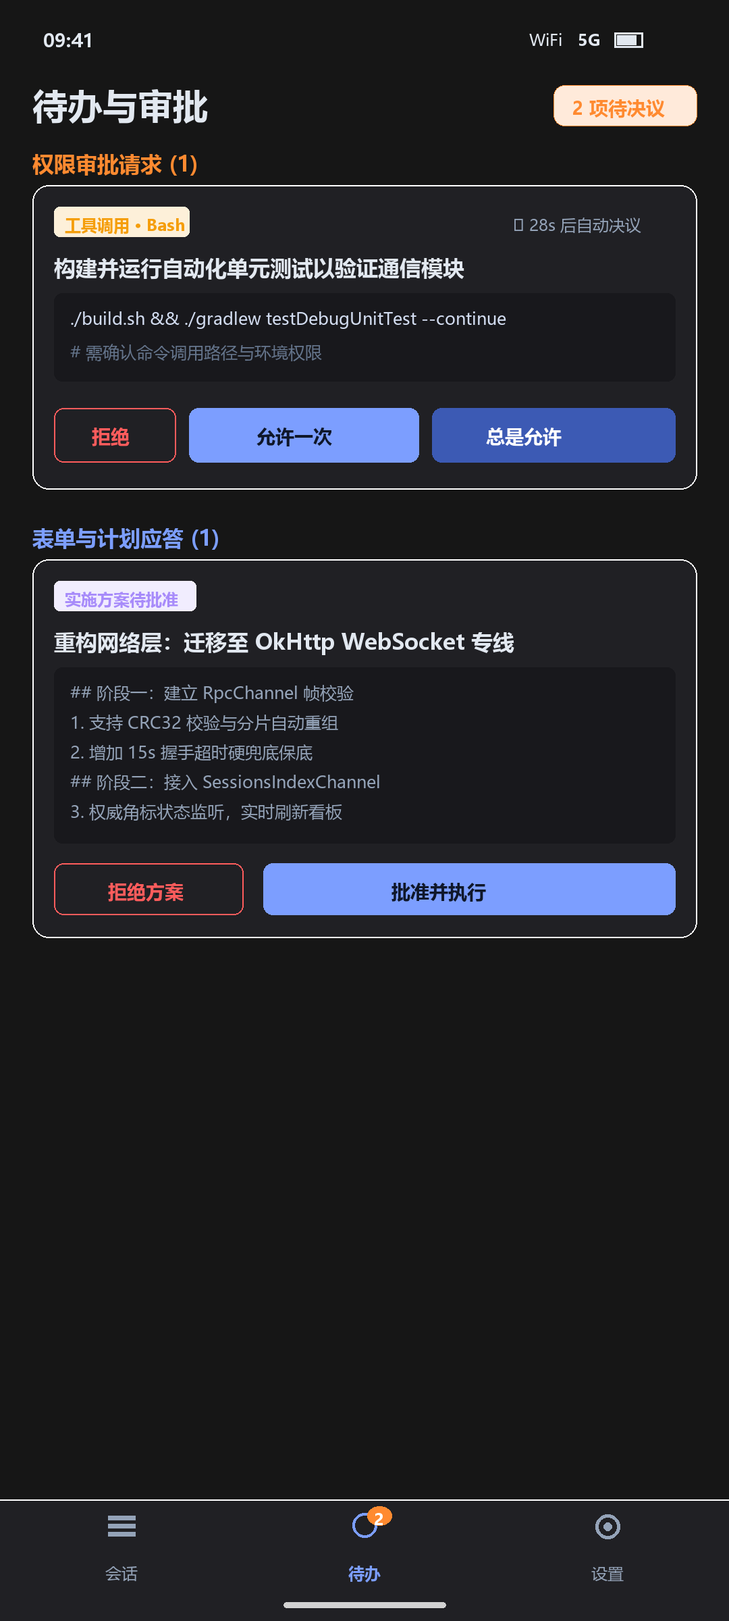
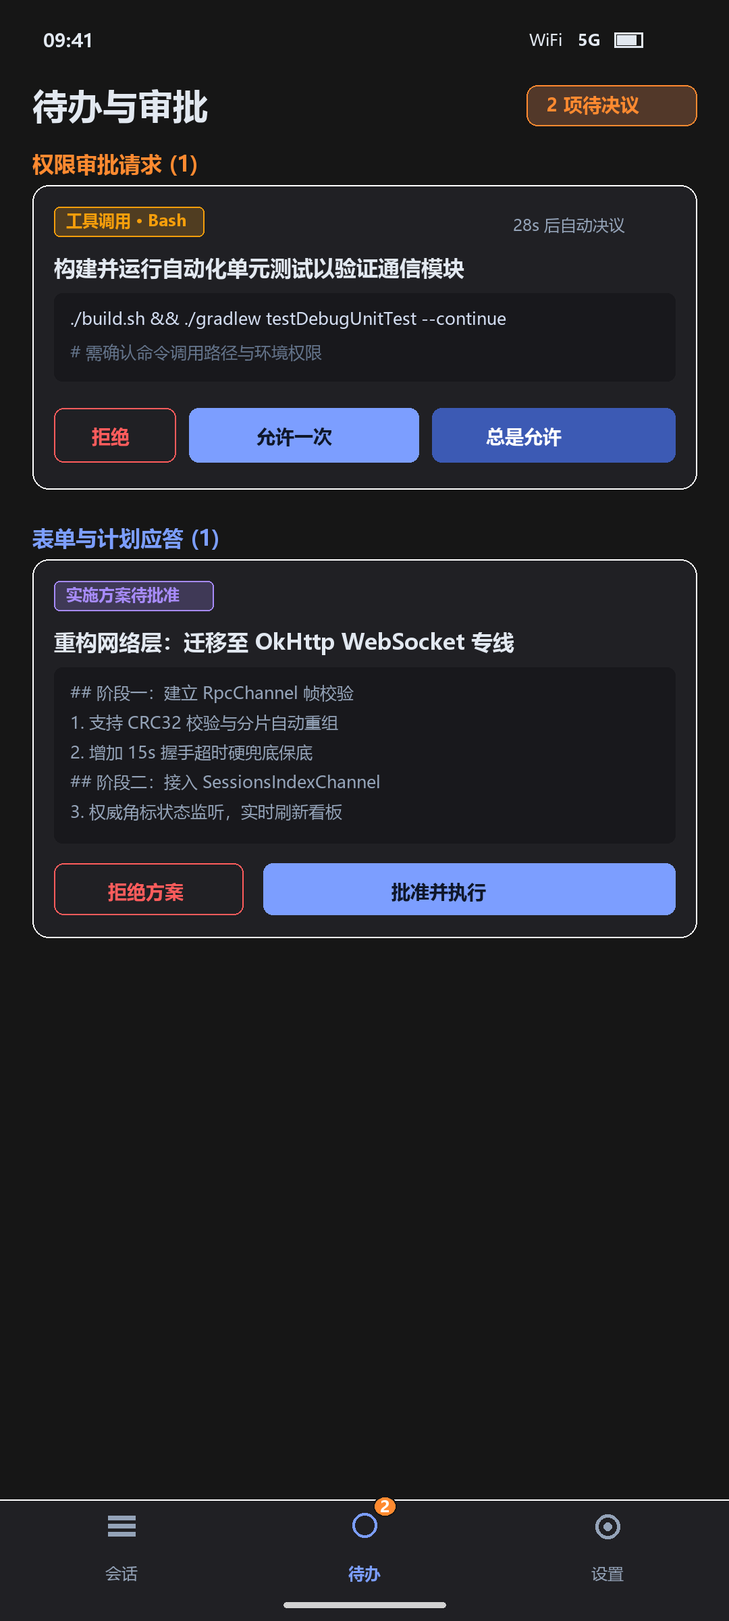
docs(readme): 仓库门面与展示素材专项（Hero 区 + 隐私区块 + 锁屏审批头图 + 素材缺陷修复）
面向外部可见度与转化的展示层改动，未触碰 App 源码、协议与发布链（版本号不变）。

新增
- README 中英双语 Hero 区：锁屏审批动图 + 一句话定位 + 「与官方网页版的关键差别」对照表
  （把「锁屏通知栏审批」从功能列表一行提升为首屏卖点）
- 「隐私与数据」区块（中英双语）：不上传数据 / 凭据只存本机 / 诊断仅主动导出 / 边界如实说明
- 锁屏审批素材：app-lockscreen-approval.png + lockscreen-approval.gif（渲染脚本新增 render_lockscreen_approval）
- README 英文版补齐：### Screenshots 区、Visible Session Error Reasons 条目
- GitHub 仓库 description + 8 topics（此前全空，已由 gh 侧写入）

修复（展示素材真实缺陷）
- 三处标签被同色半透明块吞字：ImageDraw 在 RGBA 上不做 alpha 混合 → 新增 chip_bg/draw_chip
- 7 类 emoji（⏳🔍🎤💻➕➤✓）渲染成缺字方块：msyh 无 emoji 字形 → 改几何图元绘制
- 导航角标压图标、锁屏卡回复行箭头缺字、锁屏卡留白过大与文案重复

文档
- CHANGELOG 新增「未发布（2026-10-15）」段；HANDOVER 顶部权威覆盖层更新

验证
- 渲染脚本全量生成 5 PNG + 1 GIF 成功；README 10 处图片引用 0 缺失
- 像素化验：标签强调色文字存在且底色为深色；锁屏回复行命中主色三角发送符

diff --git a/tools/render_screenshots.py b/tools/render_screenshots.py
@@ -1,3 +1,16 @@
+"""README 展示素材渲染器（PIL 绘制，非真机截图）。
+
+产出 docs/screenshots/ 下 5 张 PNG + 1 张 GIF：
+  app-sessions / app-approval-notification / app-conversation / app-working
+  + app-lockscreen-approval.png / lockscreen-approval.gif（锁屏审批三态）
+
+绘图约束（改图前必读）：
+  1. 所有 fill 必须是不透明 3 元组。ImageDraw 在 RGBA 上**不做 alpha 混合**，
+     传半透明色会让同色系文字与底色叠加、文字不可读——用 chip_bg() 先把
+     强调色混到底色上。
+  2. 不要用 emoji。msyh 字体缺 emoji 字形（⏳🔍🎤💻➕➤✓ 实测全渲染成 □），
+     图标一律用几何图元（draw_magnifier/draw_mic/draw_monitor/draw_send）。
+"""
 from PIL import Image, ImageDraw, ImageFont
 import os
 
@@ -71,9 +84,12 @@ def draw_nav_bar(draw, active_tab=0, badge_count=1):
         elif idx == 1:
             draw.arc([cx - 18, iy - 20, cx + 18, iy + 16], 0, 360, fill=color, width=4)
             if badge_count > 0:
-                bx, by = cx + 22, iy - 16
-                draw.ellipse([bx - 18, by - 14, bx + 18, by + 14], fill=STATUS_PENDING)
-                draw.text((bx - 8, by - 12), str(badge_count), fill=(255, 255, 255), font=font_caption_bold)
+                bx, by = cx + 30, iy - 30
+                draw.ellipse([bx - 17, by - 15, bx + 17, by + 15], fill=BG_COLOR)
+                draw.ellipse([bx - 15, by - 13, bx + 15, by + 13], fill=STATUS_PENDING)
+                bb = draw.textbbox((0, 0), str(badge_count), font=font_caption_bold)
+                draw.text((bx - (bb[2] - bb[0]) // 2 - bb[0], by - (bb[3] - bb[1]) // 2 - bb[1]),
+                          str(badge_count), fill=(255, 255, 255), font=font_caption_bold)
         else:
             draw.arc([cx - 18, iy - 18, cx + 18, iy + 18], 0, 360, fill=color, width=5)
             draw.ellipse([cx - 6, iy - 6, cx + 6, iy + 6], fill=color)
@@ -84,6 +100,45 @@ def draw_nav_bar(draw, active_tab=0, badge_count=1):
 
 def draw_card(draw, box, fill=CARD_BG, outline=BORDER_COLOR, radius=24):
     draw.rounded_rectangle(box, radius=radius, fill=fill, outline=outline, width=2)
+
+def chip_bg(accent, alpha=0.22, base=CARD_BG):
+    """把强调色按 alpha 混到卡片底色上，得到不透明背景色。
+
+    ImageDraw 在 RGBA 上不做 alpha 混合，直接写半透明 fill 会让标签底色与
+    同色系文字叠在一起、文字彻底看不见（历史截图的真实缺陷）。
+    """
+    return tuple(int(base[i] * (1 - alpha) + accent[i] * alpha) for i in range(3))
+
+def draw_chip(draw, box, accent, text, font=None, radius=8, pad_x=18):
+    f = font or font_caption_bold
+    draw.rounded_rectangle(box, radius=radius, fill=chip_bg(accent), outline=accent, width=2)
+    x0, y0, x1, y1 = box
+    bb = draw.textbbox((0, 0), text, font=f)
+    y = y0 + (y1 - y0 - (bb[3] - bb[1])) // 2 - bb[1]
+    draw.text((x0 + pad_x, y), text, fill=accent, font=f)
+
+def text_center(draw, cx, y, text, font, fill):
+    bb = draw.textbbox((0, 0), text, font=font)
+    draw.text((cx - (bb[2] - bb[0]) // 2 - bb[0], y), text, fill=fill, font=font)
+
+# 图标一律用几何图元绘制：msyh 字体不含 emoji 字形（⏳🔍🎤💻➕➤✓ 实测全部渲染成缺字方块）
+
+def draw_magnifier(draw, cx, cy, color, r=10):
+    draw.ellipse([cx - r, cy - r, cx + r, cy + r], outline=color, width=3)
+    draw.line([cx + int(r * 0.7), cy + int(r * 0.7), cx + r + 7, cy + r + 7], fill=color, width=3)
+
+def draw_mic(draw, cx, cy, color, w=13, h=24):
+    draw.rounded_rectangle([cx - w // 2, cy - h // 2, cx + w // 2, cy + h // 2], radius=w // 2, fill=color)
+    draw.arc([cx - w, cy - h // 2, cx + w, cy + h // 2 + 4], 0, 180, fill=color, width=3)
+    draw.line([cx, cy + h // 2 + 8, cx, cy + h // 2 + 15], fill=color, width=3)
+
+def draw_monitor(draw, x, y, color, w=34, h=24):
+    draw.rounded_rectangle([x, y, x + w, y + h], radius=4, outline=color, width=3)
+    draw.line([x + w // 2, y + h, x + w // 2, y + h + 7], fill=color, width=3)
+    draw.line([x + w // 2 - 11, y + h + 7, x + w // 2 + 11, y + h + 7], fill=color, width=3)
+
+def draw_send(draw, cx, cy, color, s=15):
+    draw.polygon([(cx - s, cy - s), (cx + s, cy), (cx - s, cy + s)], fill=color)
 
 def render_sessions():
     im = Image.new("RGBA", (W, H), BG_COLOR)
@@ -98,7 +153,8 @@ def render_sessions():
     draw.text((W - 236, 138), "+ 新建会话", fill=ON_PRIMARY, font=font_body_bold)
     
     draw_card(draw, [48, 240, W - 48, 324], fill=SURFACE_COLOR, radius=18)
-    draw.text((80, 264), "🔍 搜索会话标题或工作区路径…", fill=TEXT_MUTED, font=font_caption)
+    draw_magnifier(draw, 90, 278, TEXT_MUTED)
+    draw.text((120, 264), "搜索会话标题或工作区路径…", fill=TEXT_MUTED, font=font_caption)
     
     chips = [("全部 (6)", True), ("运行中 (2)", False), ("待处理 (1)", False)]
     cx = 48
@@ -111,7 +167,7 @@ def render_sessions():
         
     sessions_data = [
         ("分析APP并出具整改方案与重构", "F:/AI/Zcode · GLM-4.5 · 运行中", True, False, STATUS_ONLINE),
-        ("重构网络通信层与 WebSocket 自动重连", "F:/Project/Relay · ⏳ 1 项待决议 (请前往「待办」处理)", False, True, STATUS_PENDING),
+        ("重构网络通信层与 WebSocket 自动重连", "F:/Project/Relay · 1 项待决议 (请前往「待办」处理)", False, True, STATUS_PENDING),
         ("修复用户设置与密钥存储安全隐患", "F:/AI/Zcode · DeepSeek-R1 · 已完成", False, False, (140, 140, 140)),
         ("多机配对管理与自动设备迁移协议", "F:/AI/Zcode · Claude-3.5-Sonnet · 已完成", False, False, (140, 140, 140)),
         ("HyperOS 锁屏审批通知保活指南配置", "F:/System/Guide · 已完成", False, False, (140, 140, 140)),
@@ -150,8 +206,7 @@ def render_approvals():
     draw_status_bar(draw)
     
     draw.text((48, 120), "待办与审批", fill=TEXT_WHITE, font=font_headline)
-    draw.rounded_rectangle([W - 260, 126, W - 48, 186], radius=16, fill=(255, 138, 48, 45), outline=STATUS_PENDING)
-    draw.text((W - 232, 140), "2 项待决议", fill=STATUS_PENDING, font=font_body_bold)
+    draw_chip(draw, [W - 300, 126, W - 48, 186], STATUS_PENDING, "2 项待决议", font=font_body_bold, radius=16, pad_x=30)
     
     cy = 220
     draw.text((48, cy), "权限审批请求 (1)", fill=STATUS_PENDING, font=font_title_small)
@@ -160,9 +215,8 @@ def render_approvals():
     card_box = [48, cy, W - 48, cy + 450]
     draw_card(draw, card_box, fill=SURFACE_COLOR, outline=BORDER_COLOR)
     
-    draw.rounded_rectangle([80, cy + 32, 280, cy + 76], radius=8, fill=(245, 158, 11, 40))
-    draw.text((96, cy + 42), "工具调用 · Bash", fill=TRAJECTORY_AMBER, font=font_caption_bold)
-    draw.text((W - 320, cy + 42), "⏳ 28s 后自动决议", fill=TEXT_MUTED, font=font_caption)
+    draw_chip(draw, [80, cy + 32, 302, cy + 76], TRAJECTORY_AMBER, "工具调用 · Bash")
+    draw.text((W - 320, cy + 42), "28s 后自动决议", fill=TEXT_MUTED, font=font_caption)
     
     draw.text((80, cy + 100), "构建并运行自动化单元测试以验证通信模块", fill=TEXT_WHITE, font=font_title_small)
     
@@ -188,8 +242,7 @@ def render_approvals():
     card_box2 = [48, cy, W - 48, cy + 560]
     draw_card(draw, card_box2, fill=SURFACE_COLOR, outline=BORDER_COLOR)
     
-    draw.rounded_rectangle([80, cy + 32, 290, cy + 76], radius=8, fill=(167, 139, 250, 40))
-    draw.text((96, cy + 42), "实施方案待批准", fill=TRAJECTORY_PURPLE, font=font_caption_bold)
+    draw_chip(draw, [80, cy + 32, 316, cy + 76], TRAJECTORY_PURPLE, "实施方案待批准")
     
     draw.text((80, cy + 100), "重构网络层：迁移至 OkHttp WebSocket 专线", fill=TEXT_WHITE, font=font_title_small)
     
@@ -257,9 +310,8 @@ def render_conversation():
     ay += 240
     
     draw.rounded_rectangle([80, ay, W - 80, ay + 240], radius=16, fill=(28, 28, 34), outline=(255, 255, 255, 20))
-    draw.rounded_rectangle([104, ay + 20, 240, ay + 62], radius=8, fill=(245, 158, 11, 40))
-    draw.text((118, ay + 28), "工具调用 · Bash", fill=TRAJECTORY_AMBER, font=font_caption_bold)
-    draw.text((260, ay + 28), "✓ 成功", fill=STATUS_ONLINE, font=font_caption_bold)
+    draw_chip(draw, [104, ay + 20, 326, ay + 62], TRAJECTORY_AMBER, "工具调用 · Bash")
+    draw.text((260, ay + 28), "√ 成功", fill=STATUS_ONLINE, font=font_caption_bold)
     draw.text((W - 190, ay + 28), "详情 ▼", fill=TEXT_MUTED, font=font_caption)
     
     draw.text((104, ay + 84), "git status -s && ./build.sh", fill=TEXT_WHITE, font=font_mono)
@@ -282,7 +334,7 @@ def render_conversation():
     draw.rounded_rectangle(code_card, radius=14, fill=(22, 24, 30), outline=(255, 255, 255, 20))
     draw.rectangle([80, ay, W - 80, ay + 56], fill=(32, 34, 42))
     draw.text((104, ay + 14), "bash", fill=TEXT_MUTED, font=font_caption_bold)
-    draw.text((W - 190, ay + 14), "✓ 已复制", fill=STATUS_ONLINE, font=font_caption_bold)
+    draw.text((W - 190, ay + 14), "√ 已复制", fill=STATUS_ONLINE, font=font_caption_bold)
     
     draw.text((104, ay + 80), "./build.sh install", fill=(130, 220, 150), font=font_mono)
     draw.text((104, ay + 134), "# 一键编译并在连接的真机上完成安装启动", fill=TEXT_SUBTLE, font=font_mono)
@@ -290,12 +342,12 @@ def render_conversation():
     
     input_y = H - 160
     draw.rounded_rectangle([48, input_y, W - 48, input_y + 110], radius=32, fill=SURFACE_COLOR, outline=(255, 255, 255, 40), width=2)
-    draw.text((84, input_y + 32), "➕", fill=TEXT_MUTED, font=font_title_small)
-    draw.text((144, input_y + 32), "🎤", fill=PRIMARY, font=font_title_small)
+    draw.text((84, input_y + 30), "＋", fill=TEXT_MUTED, font=font_title_small)
+    draw_mic(draw, 160, input_y + 54, PRIMARY)
     draw.text((220, input_y + 38), "发送指令到 PC 端 Agent…", fill=TEXT_MUTED, font=font_body)
     
     draw.ellipse([W - 138, input_y + 18, W - 66, input_y + 90], fill=PRIMARY)
-    draw.text((W - 114, input_y + 30), "➤", fill=ON_PRIMARY, font=font_title_small)
+    draw_send(draw, W - 102, input_y + 54, ON_PRIMARY, s=15)
     
     draw.rounded_rectangle([W // 2 - 120, H - 28, W // 2 + 120, H - 20], radius=4, fill=(160, 160, 160, 120))
     
@@ -318,7 +370,7 @@ def render_settings():
     card1 = [48, cy, W - 48, cy + 180]
     draw_card(draw, card1)
     draw.ellipse([80, cy + 40, 124, cy + 84], fill=PRIMARY_CONTAINER)
-    draw.text((94, cy + 42), "💻", font=font_body_bold)
+    draw_monitor(draw, 88, cy + 50, PRIMARY, w=28, h=20)
     draw.text((150, cy + 34), "ThinkPad-P16 (主工作站)", fill=TEXT_WHITE, font=font_title_small)
     draw.ellipse([152, cy + 96, 164, cy + 108], fill=STATUS_ONLINE)
     draw.text((176, cy + 90), "已就绪 · 会话桥 就绪 · 延迟 12ms", fill=TEXT_MUTED, font=font_caption)
@@ -371,7 +423,7 @@ def render_settings():
     draw_card(draw, card4)
     draw.text((80, cy + 32), "ZCode Remote", fill=TEXT_WHITE, font=font_title_small)
     draw.text((80, cy + 80), "当前版本: v0.5.0-beta1 (Build 11)", fill=TEXT_MUTED, font=font_caption)
-    draw.text((80, cy + 126), "✓ 已是最新版本 · 官方规范设计系统", fill=STATUS_ONLINE, font=font_caption_bold)
+    draw.text((80, cy + 126), "√ 已是最新版本 · 官方规范设计系统", fill=STATUS_ONLINE, font=font_caption_bold)
     
     draw.rounded_rectangle([W - 240, cy + 44, W - 80, cy + 116], radius=14, fill=PRIMARY)
     draw.text((W - 212, cy + 62), "检查更新", fill=ON_PRIMARY, font=font_body_bold)
@@ -381,9 +433,144 @@ def render_settings():
     im.save(os.path.join(out_dir, "app-working.png"), "PNG")
     print("app-working.png generated")
 
+# ---------------------------------------------------------------------------
+# 锁屏通知栏审批（核心差异点头图）：静态主图 + 交互演示 GIF
+# ---------------------------------------------------------------------------
+
+LOCK_TOP = (9, 10, 15)
+LOCK_BOTTOM = (24, 24, 34)
+OUT_DIR = "F:/AI/Zcode/zcode-remote-app/docs/screenshots"
+
+def draw_lock_wallpaper(draw, top=LOCK_TOP, bottom=LOCK_BOTTOM):
+    for y in range(H):
+        t = y / (H - 1)
+        c = tuple(int(top[i] * (1 - t) + bottom[i] * t) for i in range(3))
+        draw.line([(0, y), (W, y)], fill=c)
+
+def draw_lock_clock(draw):
+    cx = W // 2
+    metal = (122, 136, 158)
+    draw.arc([cx - 34, 236, cx + 34, 318], 180, 360, fill=metal, width=13)
+    draw.rounded_rectangle([cx - 54, 288, cx + 54, 378], radius=18, fill=metal)
+    draw.ellipse([cx - 11, 324, cx + 11, 346], fill=LOCK_TOP)
+    text_center(draw, cx, 424, "09:41", get_font(168, bold=True), TEXT_WHITE)
+    text_center(draw, cx, 636, "10月15日 星期三", get_font(38, bold=False), TEXT_MUTED)
+
+def draw_code_box(draw, box, lines, line_h=48):
+    draw.rounded_rectangle(box, radius=14, fill=(20, 20, 26), outline=(255, 255, 255, 20), width=1)
+    y = box[1] + 22
+    for txt, col in lines:
+        draw.text((box[0] + 26, y), txt, fill=col, font=font_mono)
+        y += line_h
+
+def draw_button(draw, box, label, kind="primary"):
+    x0, y0, x1, y1 = box
+    if kind == "danger":
+        draw.rounded_rectangle(box, radius=14, fill=None, outline=STATUS_ERROR, width=3)
+        color = STATUS_ERROR
+    elif kind == "ghost":
+        draw.rounded_rectangle(box, radius=14, fill=(60, 90, 180))
+        color = (255, 255, 255)
+    else:
+        draw.rounded_rectangle(box, radius=14, fill=PRIMARY)
+        color = ON_PRIMARY
+    bb = draw.textbbox((0, 0), label, font=font_body_bold)
+    draw.text((x0 + (x1 - x0 - (bb[2] - bb[0])) // 2 - bb[0],
+               y0 + (y1 - y0 - (bb[3] - bb[1])) // 2 - bb[1]), label, fill=color, font=font_body_bold)
+
+def draw_notif_app_header(draw, x0, y0, x1, when="现在"):
+    draw.rounded_rectangle([x0, y0, x0 + 64, y0 + 64], radius=16, fill=PRIMARY_CONTAINER, outline=PRIMARY, width=2)
+    draw.text((x0 + 15, y0 + 16), ">_", fill=PRIMARY, font=font_body_bold)
+    draw.text((x0 + 82, y0 + 6), "ZCode Remote", fill=TEXT_WHITE, font=font_body_bold)
+    draw.text((x0 + 82, y0 + 44), "远程控制 · 常驻中继", fill=TEXT_SUBTLE, font=font_caption)
+    bb = draw.textbbox((0, 0), when, font=font_caption)
+    draw.text((x1 - (bb[2] - bb[0]) - bb[0], y0 + 12), when, fill=TEXT_SUBTLE, font=font_caption)
+
+def draw_lock_card(draw, expanded, approved=False):
+    if not expanded:
+        box = [48, 1930, W - 48, 2150]
+        draw_card(draw, box, fill=(30, 30, 38), outline=(255, 255, 255, 32), radius=28)
+        draw_notif_app_header(draw, box[0] + 30, box[1] + 30, box[2] - 30)
+        draw.text((box[0] + 30, box[1] + 122), "需要你确认：执行权限审批", fill=TEXT_WHITE, font=font_body_bold)
+        draw.text((box[0] + 30, box[1] + 170), "工具调用 · Bash 请求执行 · 下拉可内联处理", fill=TEXT_MUTED, font=font_caption)
+        return
+
+    box = [48, 1240, W - 48, 1900]
+    draw_card(draw, box, fill=(30, 30, 38), outline=(255, 255, 255, 32), radius=28)
+    x0 = box[0] + 34
+    x1 = box[2] - 34
+    draw_notif_app_header(draw, x0, box[1] + 30, x1)
+
+    draw.text((x0, box[1] + 124), "需要你确认：执行权限审批", fill=TEXT_WHITE, font=font_title_small)
+    draw.text((x0, box[1] + 178), "桌面端请求执行以下命令，锁屏状态下可直接决策：",
+              fill=TEXT_MUTED, font=font_caption)
+
+    draw_code_box(draw, [x0, box[1] + 232, x1, box[1] + 384], [
+        ("./build.sh && ./gradlew testDebugUnitTest --continue", (210, 220, 240)),
+        ("# 需确认命令调用路径与环境权限", TEXT_SUBTLE),
+    ])
+
+    by0, by1 = box[1] + 432, box[1] + 512
+    if approved:
+        draw.rounded_rectangle([x0, by0, x1, by1], radius=14, fill=chip_bg(STATUS_ONLINE, 0.20), outline=STATUS_ONLINE, width=2)
+        draw.text((x0 + 26, by0 + 14), "√", fill=STATUS_ONLINE, font=font_body_bold)
+        draw.text((x0 + 78, by0 + 14), "已允许一次 · 已同步到桌面端", fill=STATUS_ONLINE, font=font_body_bold)
+    else:
+        draw_button(draw, [x0, by0, x0 + 180, by1], "拒绝", kind="danger")
+        draw_button(draw, [x0 + 204, by0, x0 + 524, by1], "允许一次", kind="primary")
+        draw_button(draw, [x0 + 548, by0, x1, by1], "总是允许", kind="ghost")
+
+    ry0, ry1 = box[1] + 540, box[1] + 620
+    draw.rounded_rectangle([x0, ry0, x1, ry1], radius=14, fill=(22, 22, 28), outline=(255, 255, 255, 20), width=1)
+    draw.text((x0 + 26, ry0 + 16), "回复…（免解锁内联输入）", fill=TEXT_SUBTLE, font=font_caption)
+    # 直接画三角形，避免 emoji/箭头字形在部分字体下渲染成缺字方块
+    sy = (ry0 + ry1) // 2
+    draw.polygon([(x1 - 68, sy - 13), (x1 - 38, sy), (x1 - 68, sy + 13)], fill=PRIMARY)
+
+def render_lockscreen_approval():
+    """产出 3 帧：折叠通知 → 展开可决策 → 已允许；主图取展开帧。"""
+    frames = []
+    for expanded, approved in [(False, False), (True, False), (True, True)]:
+        im = Image.new("RGBA", (W, H), BG_COLOR)
+        draw = ImageDraw.Draw(im)
+        draw_lock_wallpaper(draw)
+        draw_status_bar(draw)
+        draw_lock_clock(draw)
+        draw_lock_card(draw, expanded, approved)
+        frames.append(im)
+
+    os.makedirs(OUT_DIR, exist_ok=True)
+    hero_path = os.path.join(OUT_DIR, "app-lockscreen-approval.png")
+    frames[1].save(hero_path, "PNG")
+    print("app-lockscreen-approval.png generated")
+
+    frame_paths = []
+    for i, im in enumerate(frames):
+        p = os.path.join(OUT_DIR, f"_lock_frame{i}.png")
+        im.save(p, "PNG")
+        frame_paths.append(p)
+
+    gif_path = os.path.join(OUT_DIR, "lockscreen-approval.gif")
+    save_gif([frame_paths[0], frame_paths[1], frame_paths[2], frame_paths[1]], gif_path,
+             durations=[1100, 1900, 1600, 1900], width=520)
+    for p in frame_paths:
+        os.remove(p)
+
+def save_gif(paths, out_path, durations, width=520):
+    frames = []
+    for p in paths:
+        im = Image.open(p).convert("RGB")
+        nh = int(im.height * width / im.width)
+        frames.append(im.resize((width, nh), Image.LANCZOS).convert("P", palette=Image.ADAPTIVE, colors=96))
+    frames[0].save(out_path, save_all=True, append_images=frames[1:],
+                   duration=durations, loop=0, optimize=True, disposal=2)
+    print(f"{os.path.basename(out_path)} generated",
+          f"({round(os.path.getsize(out_path) / 1024)} KB)")
+
 if __name__ == "__main__":
     render_sessions()
     render_approvals()
     render_conversation()
     render_settings()
-    print("ALL 4 SCREENSHOTS GENERATED SUCCESSFULLY!")
+    render_lockscreen_approval()
+    print("ALL SCREENSHOTS GENERATED SUCCESSFULLY!")

diff --git a/CHANGELOG.md b/CHANGELOG.md
@@ -335,6 +335,31 @@
 - ~~CI 模拟器首跑后需据实况回填基线文件~~ → **已回填（2026-10-13，本地 AVD 首跑记录，见验证段）**；注意 CI runner 模拟器为 2 核、本地 AVD 为 4 核，若 CI 基线比对超阈值（`--factor 3.0`，单向比对=仅报变慢）先核对是否环境差异再定夺。模拟器帧时序噪声大，真实性能验收以真机人工跑为准（README/HANDOVER 已写明判读口径）。
 - 真机灰度（beta33 协议路径 / beta35 诊断导出落盘 / beta36 格式化后界面回归）与 A-5 逻辑 fragment、出站物理分片硬门不变；§11.10 `1.0.0` 发布门依赖上述项。
 
+## 未发布（2026-10-15）· 仓库门面与展示素材专项：README 信息架构 + 锁屏审批头图 + 素材缺陷修复
+
+### 新增（面向外部可见度与转化，无 App 运行时行为变化）
+- **README 顶部信息架构重构**：中文/英文两版均新增 Hero 区——一句话定位 + **锁屏审批动图**；紧随其后新增「与官方网页版的关键差别」对照表（锁屏审批 / 网络抖动 / 离线秒开 / 后台保活四行）。此前「锁屏通知栏审批（核心差异点）」只是功能列表里的一行，现提升为首页首屏卖点。
+- **隐私与数据声明区块前置（中英双语）**：在爆雷舆情背景下新增独立小节，明确四件事——① 客户端不向任何服务器上传数据（无遥测/埋点/账号/广告）；② 配对凭据只存本机（AES-256-GCM + Android Keystore，日志脱敏）；③ 诊断日志仅由用户主动导出（512 条环形缓冲 + 熵掩码，无自动上传通道）；④ **边界如实说明**（通信仍经官方中继，与官方网页版同链路，中继可见内容；本项目不额外留存）。与仓库既有 `SECURITY.md`、beta35 诊断缓冲的隐私边界一致。
+- **锁屏审批展示素材（新增）**：`tools/render_screenshots.py` 新增 `render_lockscreen_approval()`，用既有设计系统（zai-dark 色板 + Material 几何图元）渲染锁屏通知栏审批三态（折叠通知 → 展开可决策「允许一次/总是允许/拒绝」+ 免解锁内联回复 → 已允许），产出静态图 `docs/screenshots/app-lockscreen-approval.png` 与动图 `docs/screenshots/lockscreen-approval.gif`（4 帧、520px 宽、约 125 KB）。
+- **README 英文版补齐**：补 `### Screenshots` 区（此前英文段缺少界面一览）；补 `Visible Session Error Reasons` 功能条目（中文有、英文缺失）；修复英文 Milestones 表末尾因空行导致的**表格断裂**（`also includes bridge self-healing ... reads |` 与 `| Format Gate ...` 之间多了一个空行，渲染成两张表）。
+- **仓库元数据（GitHub 侧）**：补齐仓库 description（中英双语一句话）与 8 个 topics（`zcode` / `android` / `kotlin` / `jetpack-compose` / `remote-control` / `ai-agent` / `ai-coding` / `glm`）——此前均为空，是外部「搜不到、点进来没信息」的直接原因。
+
+### 修复（展示素材的真实缺陷）
+- **标签文字被同色块吞掉**：`render_screenshots.py` 里三处标签（审批页右上「2 项待决议」、卡片内「工具调用 · Bash」与「实施方案待批准」）此前用半透明强调色直接作 `fill`，而 `ImageDraw` 在 RGBA 上**不做 alpha 混合**，导致底色与同色系文字叠加、文字完全不可读。新增 `chip_bg()`（把强调色按 alpha 混到卡片底色，得**不透明**背景）+ `draw_chip()`（居中排版），三处改为深底 + 强调色文字/描边。像素化验：修复后文字为 `(255,138,48)`/`(245,158,11)` 对深底 `(82,56,41)`/`(80,61,33)`，对比度 ≈ 4.5:1（WCAG AA）。
+- **emoji 全部渲染成缺字方块**：msyh 字体不含 emoji 字形，实测 `⏳ 🔍 🎤 💻 ➕ ➤ ✓` 七类符号均渲染为 tofu 方块（如审批页「⏳ 28s 后自动决议」显示为「□ 28s…」）。改用**几何图元绘制**（`draw_magnifier` / `draw_mic` / `draw_monitor` / `draw_send`）与字体内可用字形（`＋` / `√`）；新增注释说明原因，避免后续回退。
+- **锁屏卡回复行箭头缺字**：`➤` 同为缺字块，改为直接 `draw.polygon` 画三角形。
+- **导航角标压住图标**：底部导航「待办」角标此前与图标重叠，改为加一圈背景色描边并偏移。
+- **锁屏卡留白过大 / 文案重复**：卡片高度由 `1240–2150` 收紧到 `1240–1900`；折叠态第三行文案由「工具调用 · Bash 请求执行 · 下拉可内联处理」改为「工具调用 · Bash 请求执行 · 下拉展开」，与展开态正文去除重复。
+
+### 验证
+- `python tools/render_screenshots.py` 全量生成 5 张 PNG + 1 张 GIF 成功；README 引用的 10 处图片路径**全部存在**（脚本化校验，0 缺失）。
+- 像素级化验：三处标签的强调色文字像素存在且底色为深色（修复前为同色叠加）；锁屏回复行 `y=1820` 扫描在 `x932–960` 命中主色蓝 `(124,158,255)`（三角发送符）。
+- 未触碰任何 App 源码（`app-android/`）、未改动协议与测试，故不涉及单测/lint/detekt 门禁，亦不影响发布链产物。
+
+### 说明
+- 本页所有界面图为**同一套设计系统渲染的界面预览**（`tools/render_screenshots.py`），非真机录制；README 已就地标注此点，并给出动图不可播放时的静态图链接。
+- 本次为展示层与仓库门面专项，**App 版本号与发布链不变**（远端最新为 `v0.5.0-beta46`），不触发新 tag/Release。
+
 ## v0.5.0-beta36（2026-10-12）· §11.8 第二层门禁补完：KtLint 格式门禁 + 依赖变更审查
 
 ### 新增（工程化；纯格式对齐 + CI 门禁，无用户可见行为变化）

diff --git a/HANDOVER.md b/HANDOVER.md
@@ -1,6 +1,19 @@
 # 交接开发计划（HANDOVER）
 
-> ## ✅ 当前项目状态（2026-10-13，权威覆盖层）
+> ## ✅ 当前项目状态（2026-10-15，权威覆盖层）
+>
+> - **当前主干**：`master`；远端已推进至 `v0.5.0-beta46` 系列。**⚠ 本机工作副本此前落后远端 50 个提交**（`git status` 因未 fetch 曾误显「领先 15」）；已于 2026-10-15 `git rebase origin/master` 对齐。**教训：任何文档/版本号判断前先 `git fetch`。**
+> - **✅ 仓库门面与展示素材专项（2026-10-15，未发版）**：纯展示层/元数据改动，**未触碰 App 源码与发布链**，不改版本号。① README 中英双语新增 Hero 区（锁屏审批动图 + 一句话定位）与「与官方网页版的关键差别」对照表，把「锁屏通知栏审批」从功能列表一行提升为首屏卖点；② 新增「隐私与数据（爆雷之后，先看这一节）」区块（中英双语）：不上传任何数据、凭据只存本机、诊断仅用户主动导出、边界如实说明（仍经官方中继）；③ **新素材** `docs/screenshots/app-lockscreen-approval.png` + `lockscreen-approval.gif`（`tools/render_screenshots.py` 新增 `render_lockscreen_approval()`，锁屏审批三态）；④ GitHub 仓库 description + 8 topics 补齐（此前全空）；⑤ README 英文版补 `### Screenshots` 区、补 `Visible Session Error Reasons` 条目、**修复英文 Milestones 表空行断裂**。**同时修掉展示素材的真实缺陷**：三处标签被同色半透明块吞字（`ImageDraw` 在 RGBA 上不做 alpha 混合 → 新增 `chip_bg`/`draw_chip`）、7 类 emoji（`⏳🔍🎤💻➕➤✓`）全部渲染成缺字方块（msyh 无 emoji 字形 → 改几何图元 `draw_magnifier`/`draw_mic`/`draw_monitor`/`draw_send`）、导航角标压图标、锁屏卡留白过大。详见 `CHANGELOG.md` 顶部「未发布（2026-10-15）」段。
+>   - **⚠ 素材澄清**：`docs/screenshots/app-{sessions,approval-notification,conversation,working}.png` 是 `tools/render_screenshots.py` 用 PIL 绘制的**设计预览图**，**不是真机截图**；真机图是带 `-phone`/`installed` 后缀的那几张。改 README 配图时勿混淆。
+>   - **推送注意**：推送前先 `git fetch`，按 §7 流程；代理端口以实际监听为准（`http.proxy` 当前固化 `127.0.0.1:7900`，本文件 §3 与 AGENTS.md 里的 7897 已过时）。
+> - **本次专项未触碰**：协议路径（beta33 真机灰度已于 beta38 完成）、A-5 逻辑 fragment、出站物理分片、§11.10 `1.0.0` 发布门——均按远端既定口径继续。
+> - **本次专项不触发新 tag/Release**（展示层改动，版本号不变；远端最新 `v0.5.0-beta46`）。
+>
+> ---
+>
+> 以下为 2026-10-13 的 beta41 权威状态块（远端工作线，含 beta37–beta46 交付记录），保留作历史证据。
+
+> ## ✅ 历史权威状态（2026-10-13，beta41）
 >
 > - **当前主干**：`master`；构建配置 `versionName=0.5.0-beta41`、`versionCode=53`。
 > - **✅ 依赖治理轮第三批（2026-10-14，beta41）——Dependabot 3 个 PR（2 合并 / 1 拒绝）**：合并 `zxing 3.5.4`、`cyclonedx 2.4.1`（含 `cyclonedxBom` 实测，6m1s 通过）；拒绝 `AGP 8.5.2→8.13.2`（跨 8 minor + 与 Gradle 强耦合，须专项协调升级）。`dependabot.yml` 再补 AGP 系三条 ignore（`com.android.application` / `com.android.library` / `com.android.tools.build:gradle`）。
